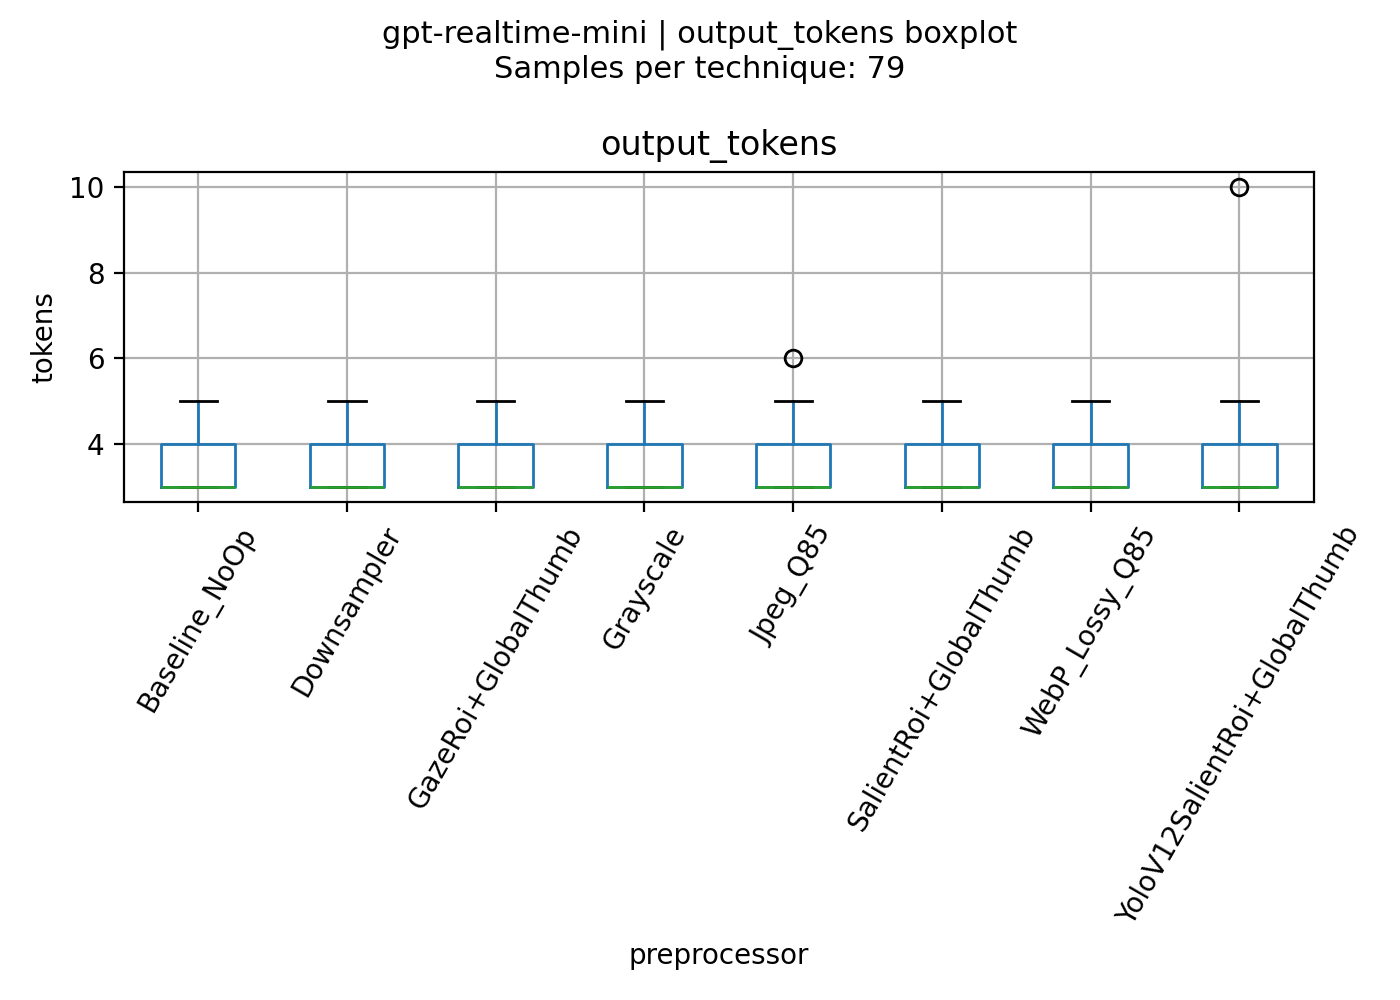
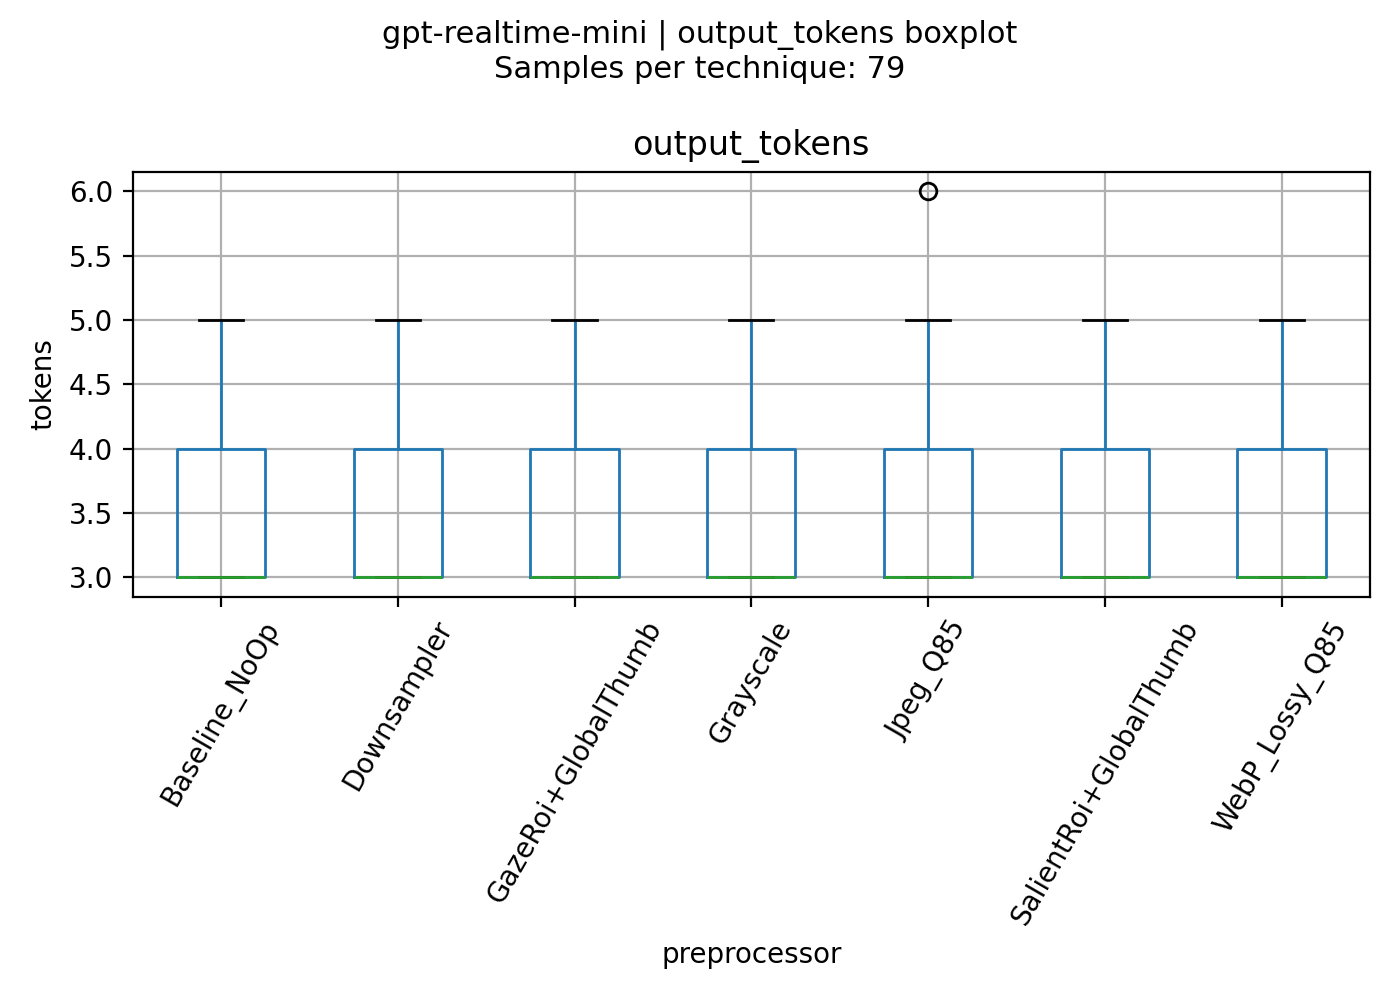
Made a small change to the token plots

diff --git a/Experiments/plotting.py b/Experiments/plotting.py
@@ -8,13 +8,124 @@ import numpy as np
 # Models to process (latest run per model)
 TARGET_MODELS = [
     "gpt-realtime-mini",
-    "gpt-realtime",
-    "gpt-5.1-2025-11-13",
-    "gpt-5-mini-2025-08-07",
-    "gpt-5-nano-2025-08-07",
-    "gpt-4.1-2025-04-14",
-    "gpt-4.1-mini-2025-04-14",
+    # "gpt-realtime",
+    # "gpt-5.1-2025-11-13",
+    # "gpt-5-mini-2025-08-07",
+    # "gpt-5-nano-2025-08-07",
+    # "gpt-4.1-2025-04-14",
+    # "gpt-4.1-mini-2025-04-14",
 ]
+
+
+def load_vqa_eval_details_for_experiment(exp_dir: Path) -> pd.DataFrame:
+    """
+    Loads per-sample accuracy from logs/<experiment_id>/vqa_eval.json
+    Returns a dataframe with columns: [sample_id, preprocessor, accuracy_official_vqa]
+    """
+    path = exp_dir / "vqa_eval.json"
+    if not path.exists():
+        print(f"Warning: vqa_eval.json not found in {exp_dir}. Skipping accuracy merge.")
+        return pd.DataFrame(columns=["sample_id", "preprocessor", "accuracy_official_vqa"])
+
+    obj = json.loads(path.read_text(encoding="utf-8"))
+    details = obj.get("details", [])
+
+    rows = []
+    for r in details:
+        rows.append(
+            {
+                "sample_id": str(r.get("sample_id", "")),
+                "preprocessor": str(r.get("preprocessor", "UNKNOWN")),
+                "accuracy_official_vqa": float(r.get("accuracy_official_vqa", 0.0)),
+            }
+        )
+
+    return pd.DataFrame(rows)
+
+
+def _pick_first_existing(df: pd.DataFrame, candidates: list[str]) -> str | None:
+    for c in candidates:
+        if c in df.columns:
+            return c
+    return None
+
+
+def _compute_roi_coverage_pct(df: pd.DataFrame) -> pd.Series | None:
+
+    # 3) NEW: processed pixel fraction (proxy for "coverage")
+    if all(c in df.columns for c in ["processed_pixels_total", "original_pixels_w", "original_pixels_h"]):
+        proc = pd.to_numeric(df["processed_pixels_total"], errors="coerce")
+        ow = pd.to_numeric(df["original_pixels_w"], errors="coerce")
+        oh = pd.to_numeric(df["original_pixels_h"], errors="coerce")
+        orig = ow * oh
+        with np.errstate(divide="ignore", invalid="ignore"):
+            return (proc / orig) * 100.0
+
+
+
+def _plot_roi_coverage_vs_accuracy(
+    df: pd.DataFrame,
+    group_by: str,
+    save_dir: Path | None,
+    title_prefix: str,
+) -> None:
+    """
+    Scatter plot: ROI coverage (%) vs accuracy (official VQA), with a global linear trend line.
+    """
+    if "accuracy_official_vqa" not in df.columns:
+        print("Skipping ROI-coverage-vs-accuracy plot: accuracy_official_vqa not in dataframe.")
+        return
+
+    cov = _compute_roi_coverage_pct(df)
+    if cov is None:
+        print("Skipping ROI-coverage-vs-accuracy plot: could not compute ROI coverage from available columns.")
+        return
+
+    d = df.copy()
+    d["roi_coverage_pct"] = cov
+    d["roi_coverage_pct"] = pd.to_numeric(d["roi_coverage_pct"], errors="coerce")
+    d["accuracy_official_vqa"] = pd.to_numeric(d["accuracy_official_vqa"], errors="coerce")
+    d = d.dropna(subset=["roi_coverage_pct", "accuracy_official_vqa"])
+
+    if d.empty:
+        print("Skipping ROI-coverage-vs-accuracy plot: no valid numeric rows after cleaning.")
+        return
+
+    fig, ax = plt.subplots(figsize=(8, 5))
+
+    # Scatter by group
+    for label, sub in d.groupby(group_by, dropna=False):
+        ax.scatter(sub["roi_coverage_pct"], sub["accuracy_official_vqa"], s=10, alpha=0.6, label=str(label))
+
+    # Global trend line
+    x = d["roi_coverage_pct"].to_numpy()
+    y = d["accuracy_official_vqa"].to_numpy()
+    msk = np.isfinite(x) & np.isfinite(y)
+    x = x[msk]
+    y = y[msk]
+    if len(x) >= 2 and np.nanstd(x) > 0:
+        m, b = np.polyfit(x, y, 1)
+        x_line = np.linspace(x.min(), x.max(), 100)
+        y_line = m * x_line + b
+        ax.plot(x_line, y_line, linewidth=2)
+
+    ax.set_title("ROI coverage vs VQA accuracy")
+    ax.set_xlabel("ROI coverage (% of full image)")
+    ax.set_ylabel("Accuracy (official VQA)")
+    ax.set_ylim(0, 1.05)
+
+    if d[group_by].nunique() <= 12:
+        ax.legend(fontsize=8, loc="best")
+
+    sample_info = _compute_sample_info(d, group_by)
+    fig.suptitle(f"{title_prefix}ROI coverage vs accuracy\n{sample_info}".strip(), fontsize=11)
+
+    plt.tight_layout()
+
+    if save_dir:
+        fig.savefig(save_dir / "roi_coverage_vs_accuracy.png", dpi=200)
+
+    plt.close(fig)
 
 
 def _pick_payload_bytes_column(df: pd.DataFrame) -> str | None:
@@ -286,15 +397,21 @@ def plot_boxplots_separate_images(
     # -----------------
     # Tokens: one fig per metric
     # -----------------
+
+    # Exclude specific preprocessors from token plots
+    excluded_preprocessors_for_tokens = {"YoloV12SalientRoi+GlobalThumb"}
+
+    df_tokens = df[~df[group_by].isin(excluded_preprocessors_for_tokens)].copy()
+
     for col in token_cols:
         fig, ax = plt.subplots(figsize=(7, 5))
-        df.boxplot(column=col, by=group_by, ax=ax)
+        df_tokens.boxplot(column=col, by=group_by, ax=ax)
         ax.set_title(col)
         ax.set_xlabel(group_by)
         ax.set_ylabel("tokens")
         ax.tick_params(axis="x", rotation=60)
 
-        sample_info = _compute_sample_info(df, group_by)
+        sample_info = _compute_sample_info(df_tokens, group_by)
         fig.suptitle(f"{title_prefix}{col} boxplot\n{sample_info}".strip(), fontsize=11)
 
         plt.tight_layout()
@@ -361,6 +478,12 @@ def plot_boxplots_separate_images(
     # -----------------
     _plot_payload_vs_latency(df, group_by=group_by, save_dir=save_dir, title_prefix=title_prefix)
 
+    # -----------------
+    # NEW: ROI coverage vs accuracy scatter
+    # -----------------
+    _plot_roi_coverage_vs_accuracy(df, group_by=group_by, save_dir=save_dir, title_prefix=title_prefix)
+
+
 
 def plot_preprocessors_for_latest_run_per_model(logs_root: str = "logs") -> None:
     """
@@ -382,18 +505,28 @@ def plot_preprocessors_for_latest_run_per_model(logs_root: str = "logs") -> None
         # Align naming (your metrics uses "preprocessor")
         sizes_df = sizes_df.rename(columns={"technique": "preprocessor"})
 
+        print("\n--- sizes_df columns ---")
+        print(sorted(list(sizes_df.columns)))
+        print("--- sample rows ---")
+        print(sizes_df.head(3).to_string(index=False))
+
+
         # Merge on sample_id + preprocessor
         df_latest["sample_id"] = df_latest["sample_id"].astype(str)
 
+        # Merge preprocessing size + ROI metadata (keep bytes + any roi/image dimension columns if present)
+        keep_cols = ["sample_id", "preprocessor", "processed_binary_bytes", "data_url_bytes_utf8_total"]
+
+        extra_prefixes = ("roi_", "image_", "img_", "original_", "full_", "processed_")
+
+        for c in sizes_df.columns:
+            if c in keep_cols:
+                continue
+            if c.startswith(extra_prefixes):
+                keep_cols.append(c)
+
         df_latest = df_latest.merge(
-            sizes_df[
-                [
-                    "sample_id",
-                    "preprocessor",
-                    "processed_binary_bytes",
-                    "data_url_bytes_utf8_total",
-                ]
-            ],
+            sizes_df[keep_cols],
             on=["sample_id", "preprocessor"],
             how="left",
         )
@@ -401,6 +534,17 @@ def plot_preprocessors_for_latest_run_per_model(logs_root: str = "logs") -> None
 
         exp_id = df_latest["experiment_id"].iloc[0]
         base_dir = Path(logs_root) / exp_id
+
+        # Merge per-sample VQA accuracy from vqa_eval.json
+        acc_df = load_vqa_eval_details_for_experiment(base_dir)
+        if not acc_df.empty:
+            df_latest = df_latest.merge(
+                acc_df,
+                on=["sample_id", "preprocessor"],
+                how="left",
+            )
+
+
         out_dir = base_dir / "plots_by_preprocessor"
         out_dir.mkdir(parents=True, exist_ok=True)
 

diff --git a/obj/Debug/net8.0-windows/OpenAIRealltimeTest.AssemblyInfo.cs b/obj/Debug/net8.0-windows/OpenAIRealltimeTest.AssemblyInfo.cs
@@ -14,7 +14,7 @@ using System.Reflection;
 [assembly: System.Reflection.AssemblyCompanyAttribute("OpenAIRealltimeTest")]
 [assembly: System.Reflection.AssemblyConfigurationAttribute("Debug")]
 [assembly: System.Reflection.AssemblyFileVersionAttribute("1.0.0.0")]
-[assembly: System.Reflection.AssemblyInformationalVersionAttribute("1.0.0+1526408f0ba9100d4092ee643805144110f8fbbc")]
+[assembly: System.Reflection.AssemblyInformationalVersionAttribute("1.0.0+8642ad754c0abdbd09288d4f72f0b113f02e380c")]
 [assembly: System.Reflection.AssemblyProductAttribute("OpenAIRealltimeTest")]
 [assembly: System.Reflection.AssemblyTitleAttribute("OpenAIRealltimeTest")]
 [assembly: System.Reflection.AssemblyVersionAttribute("1.0.0.0")]
